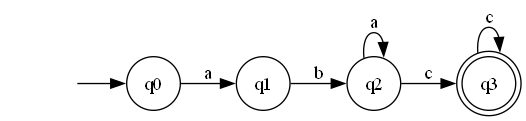
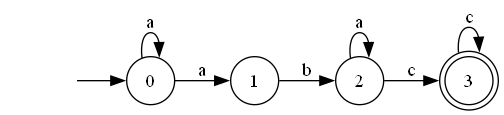
Added fa to regular grammar conversion

diff --git a/main.py b/main.py
@@ -1,4 +1,5 @@
 from graphviz import Digraph, Source
+import random
 # Nicolae Marga, FAF-231, Laboratory Work No. 2
 '''
 Variant 21
@@ -12,6 +13,104 @@ F = {q3},
 δ(q3,c) = q3,
 δ(q2,a) = q2.
 '''
+class Grammar:
+    # Constructor for grammar
+    def __init__(self, non_terminals, terminals, productions, start_symbol):
+        self.non_terminals = non_terminals
+        self.terminals = terminals
+        self.productions = productions
+        self.start_symbol = start_symbol
+        self.type = self.get_type()
+        self.words = []
+    
+    # Generate all possible strings up to a certain depth
+    def generate_string(self, symbol=None, len=0, max_len=100):
+        # If no symbol is provided, use the start symbol
+        if symbol is None:
+            symbol = self.start_symbol
+
+        # It may return the non-terminal symbol to limit the recursion depth
+        if len > max_len:
+            return symbol
+
+        # Symbol is terminal
+        if symbol in self.terminals:
+            return symbol
+
+        if symbol in self.productions:
+            # Random production
+            production = random.choice(self.productions[symbol])
+            result = ''
+            for sym in production:
+                result += self.generate_string(sym, len + 1, max_len)
+            return result
+
+        # The symbol doesn't match anything in the production
+        raise Exception('Invalid symbol')
+    
+    # Return a certain number of valid words that is contained in the language 
+    def generate_strings(self, num):
+        self.words = []
+        while len(self.words) < num:
+            word = self.generate_string()
+            # Only valid and unique words append 
+            if all(word[i] in self.terminals for i in range(len(word))) and word not in self.words:
+                self.words.append(word)
+        return self.words
+    # Checks it's type of grammar based on the productions rules
+    def get_type(self):
+        left_type = False
+        right_type = False
+
+        total_rules = []
+        for productions_rule in self.productions.values():
+            total_rules += productions_rule
+
+        # Get the end result of grammar rules which have length of 2
+        rules = [rule for rule in total_rules if len(rule) >= 2]
+        #print(rules)
+
+        for production in rules:
+            # Check if either the non-terminal char is at the right side or the left side
+            if all(production[i] in self.terminals for i in range(len(production) - 1)) and production[-1] in self.non_terminals:
+                right_type = True
+            elif production[0] in self.non_terminals and  all(production[i] in self.terminals for i in range(1, len(production))):
+                left_type = True
+            else:
+                raise ValueError('Invalid type 3 grammar definition')
+
+        if left_type and right_type:
+            raise ValueError('The grammar is not of type 3')
+
+        if left_type:
+            return 'Left Linear'
+        elif right_type:
+            return 'Right Linear'
+    def to_finite_automaton(self):
+        final_state = 'dead'
+        transitions = {}
+
+        for non_terminal in self.non_terminals:
+            transitions[non_terminal] = {}
+
+        for non_terminal, productions in self.productions.items():
+            for production in productions:
+                if len(production) == 1:  # End terminal production
+                    transitions[non_terminal][production] = final_state
+                elif self.type == 'Right Linear':
+                    transition, new_state = production[:-1], production[1]
+                    transitions[non_terminal][transition] = new_state
+                elif self.type == 'Left Linear':
+                    transition, new_state = production[1], production[:-1]
+                    transitions[non_terminal][transition] = new_state
+        print(transitions)
+        return FiniteAutomaton(
+            states=self.non_terminals.union({final_state}),
+            alphabet=self.terminals,
+            transitions=transitions,
+            initial_state=self.start_symbol,
+            accept_states=[final_state]
+        )
 class FiniteAutomaton:
     def __init__(self, states, alphabet, start_state, final_states, transitions):
         self.states = states  # Set of states
@@ -46,18 +145,34 @@ class FiniteAutomaton:
                     dot.edge(state, next_state, label=symbol)
 
         return dot
+    def to_regular_grammar(self):
+        non_terminals = self.states 
+        terminals = self.alphabet
+        start_symbol = self.start_state
+        rules = {nt: [] for nt in non_terminals}
+
+        # Transform transitions into production rules
+        for state, transitions in self.transitions.items():
+            for symbol, next_states in transitions.items():
+                for next_state in next_states:
+                    rules[state].append(f"{symbol}{next_state}")
+                    # If the next state is an accept state, add a production rule ending in the terminal
+                    if next_state in self.final_states and not self.transitions.get(next_state):
+                        rules[state].append(symbol)
+
+        return Grammar(non_terminals, terminals, rules, start_symbol)    
 
 if __name__ == '__main__':
     # FA definition based on provided details
-    Q = {"q0", "q1", "q2", "q3"}
+    Q = {"0", "1", "2", "3"}
     Σ = {"a", "b", "c"}
-    F = {"q3"}
-    start_state = "q0"
+    F = {"3"}
+    start_state = "0"
     transitions = {
-        "q0": {"a": ["q0", "q1"]},
-        "q1": {"b": ["q2"]},
-        "q2": {"c": ["q3"], "a": ["q2"]},
-        "q3": {"c": ["q3"]},
+        "0": {"a": ["0", "1"]},
+        "1": {"b": ["2"]},
+        "2": {"c": ["3"], "a": ["2"]},
+        "3": {"c": ["3"]},
     }
 
     # Create the finite automaton
@@ -65,4 +180,16 @@ if __name__ == '__main__':
 
     # Check if the automaton is deterministic
     print("Is the automaton deterministic?", fa.is_deterministic())
+
+    # Get the Grammar object
+    grammar = fa.to_regular_grammar()
+    print("The Converted Grammar G = {V_N, V_T, S, V_P}")
+    print("V_N = " + str(grammar.non_terminals))
+    print("V_T = " + str(grammar.terminals))
+    print("S = " + str(grammar.start_symbol))
+    print("V_P = " + str(grammar.productions))
+    
+    fa = grammar.to_finite_automaton()
     fa.create_diagram().render('finite_automaton', format='png')
+
+    
